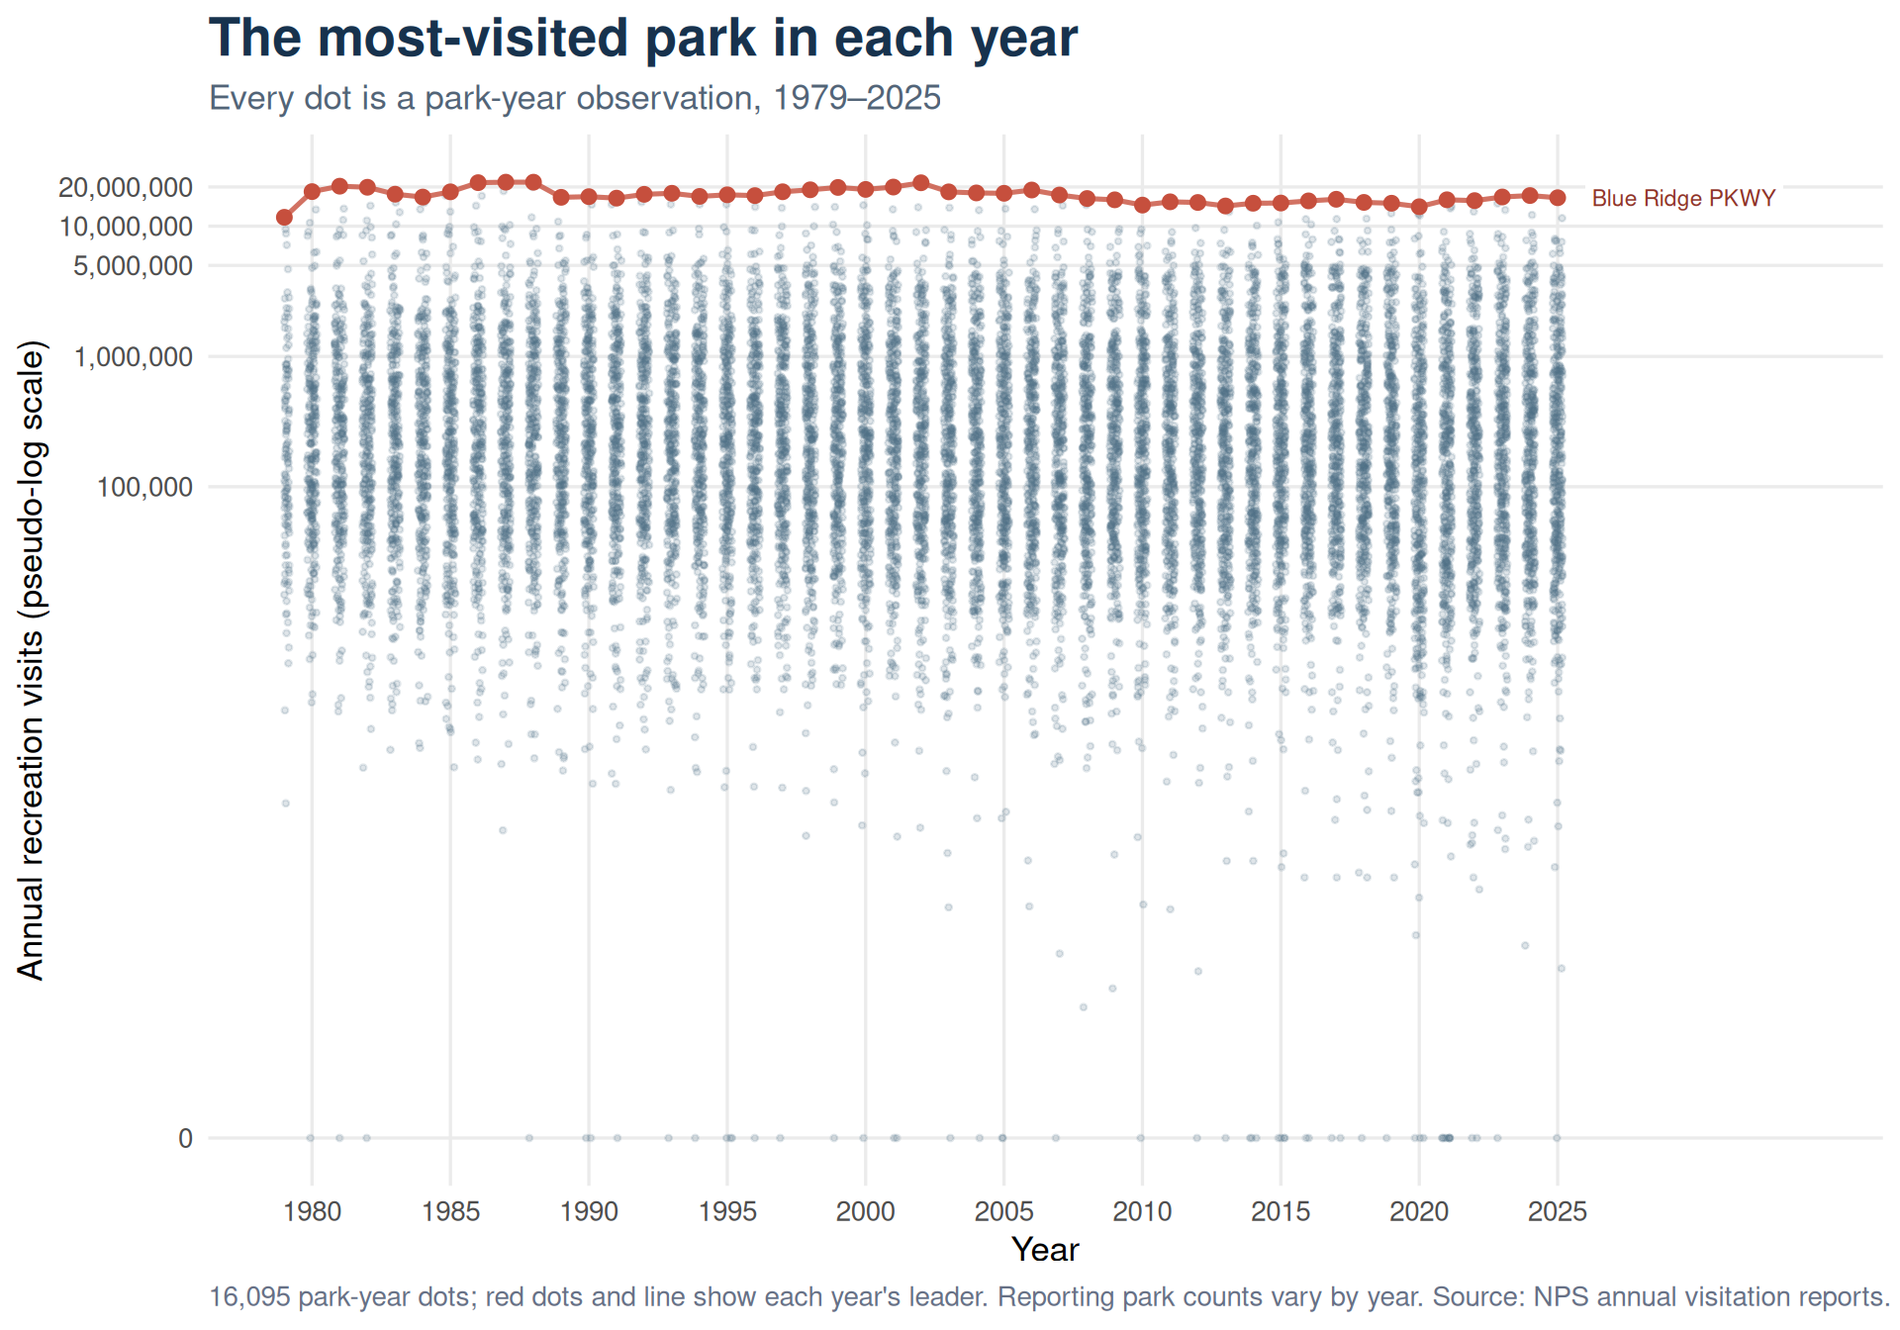
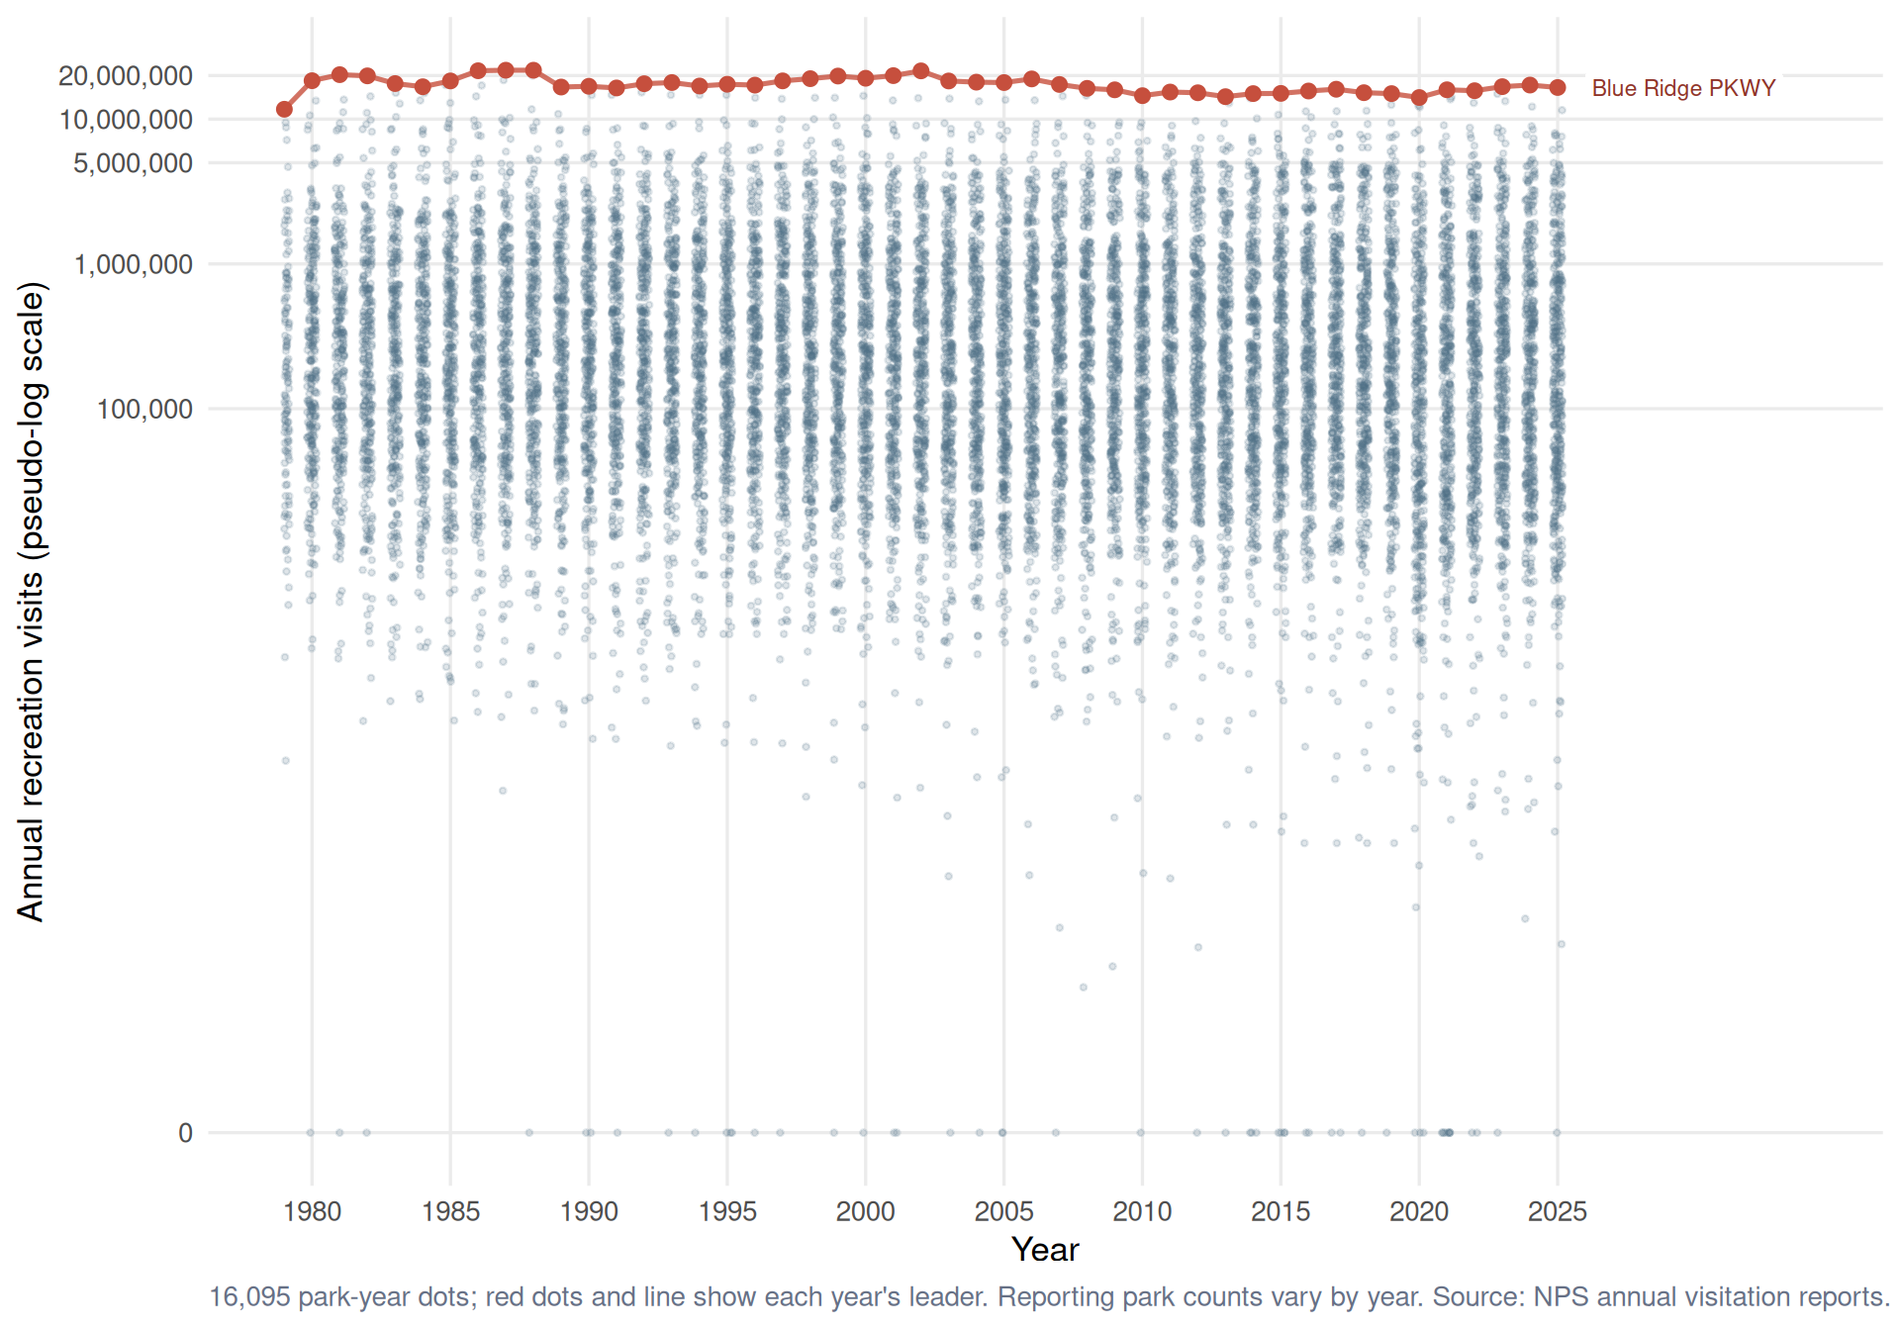
updated version

diff --git a/project.html b/project.html
@@ -6,8 +6,9 @@
 
 <meta name="viewport" content="width=device-width, initial-scale=1.0, user-scalable=yes">
 
+<meta name="author" content="Alexa Titherington">
 
-<title>A Year in the National Parks</title>
+<title>U.S. National Park Visitation</title>
 <style>
 /* Default styles provided by pandoc.
 ** See https://pandoc.org/MANUAL.html#variables-for-html for config info.
@@ -25,41 +26,6 @@ ul.task-list li input[type="checkbox"] {
   width: 0.8em;
   margin: 0 0.8em 0.2em -1em; /* quarto-specific, see https://github.com/quarto-dev/quarto-cli/issues/4556 */ 
   vertical-align: middle;
-}
-/* CSS for syntax highlighting */
-html { -webkit-text-size-adjust: 100%; }
-pre > code.sourceCode { white-space: pre; position: relative; }
-pre > code.sourceCode > span { display: inline-block; line-height: 1.25; }
-pre > code.sourceCode > span:empty { height: 1.2em; }
-.sourceCode { overflow: visible; }
-code.sourceCode > span { color: inherit; text-decoration: inherit; }
-div.sourceCode { margin: 1em 0; }
-pre.sourceCode { margin: 0; }
-@media screen {
-div.sourceCode { overflow: auto; }
-}
-@media print {
-pre > code.sourceCode { white-space: pre-wrap; }
-pre > code.sourceCode > span { text-indent: -5em; padding-left: 5em; }
-}
-pre.numberSource code
-  { counter-reset: source-line 0; }
-pre.numberSource code > span
-  { position: relative; left: -4em; counter-increment: source-line; }
-pre.numberSource code > span > a:first-child::before
-  { content: counter(source-line);
-    position: relative; left: -1em; text-align: right; vertical-align: baseline;
-    border: none; display: inline-block;
-    -webkit-touch-callout: none; -webkit-user-select: none;
-    -khtml-user-select: none; -moz-user-select: none;
-    -ms-user-select: none; user-select: none;
-    padding: 0 4px; width: 4em;
-  }
-pre.numberSource { margin-left: 3em;  padding-left: 4px; }
-div.sourceCode
-  {   }
-@media screen {
-pre > code.sourceCode > span > a:first-child::before { text-decoration: underline; }
 }
 </style>
 
@@ -87,14 +53,20 @@ pre > code.sourceCode > span > a:first-child::before { text-decoration: underlin
 
 <header id="title-block-header" class="quarto-title-block default">
 <div class="quarto-title">
-<h1 class="title">A Year in the National Parks</h1>
-<p class="subtitle lead">A project proposal on visitation, seasons, and change</p>
+<h1 class="title">U.S. National Park Visitation</h1>
+<p class="subtitle lead">Which park drew the most recreation visits each year, 1979–2025?</p>
 </div>
 
 
 
 <div class="quarto-title-meta">
 
+    <div>
+    <div class="quarto-title-meta-heading">Author</div>
+    <div class="quarto-title-meta-contents">
+             <p>Alexa Titherington </p>
+          </div>
+  </div>
     
   
     
@@ -105,102 +77,8 @@ pre > code.sourceCode > span > a:first-child::before { text-decoration: underlin
 </header>
 
 
-<section id="project-idea" class="level2">
-<h2 class="anchored" data-anchor-id="project-idea">Project idea</h2>
-<p>For my final project, I plan to study how visitation at U.S. national parks has changed over time and how seasonal patterns differ from park to park. I assembled three NPS annual visitation reports into one dataset covering 1979–2025, with 16,095 park-year observations. The separate 2025 ranking report adds each park’s rank and share of total visits.</p>
-<p>The variables I am most interested in are <strong>park name</strong>, <strong>year</strong>, and <strong>recreation visits</strong>. I will use them to compare parks and explore long-term changes in popularity. The annual report also includes other visitor-use statistics, such as visitor hours and overnight stays, which could help me compare different kinds of park use.</p>
-</section>
-<section id="which-park-was-most-visited-each-year" class="level2">
-<h2 class="anchored" data-anchor-id="which-park-was-most-visited-each-year">Which park was most visited each year?</h2>
-<p>Each small gray dot is one park’s annual recreation visits. The red dots highlight the most-visited park in each year, and the red line connects those annual leaders. The pseudo-log scale keeps the many smaller parks visible alongside parks with millions of visits.</p>
+<p>Each small gray dot represents one park’s annual recreation visits. The red dots and line show which park had the most visits each year.</p>
 <div class="cell">
-<div class="code-copy-outer-scaffold"><div class="sourceCode cell-code" id="cb1"><pre class="sourceCode r code-with-copy"><code class="sourceCode r"><span id="cb1-1"><a href="#cb1-1" aria-hidden="true" tabindex="-1"></a><span class="fu">library</span>(tidyverse)</span></code></pre></div><button title="Copy to Clipboard" class="code-copy-button"><i class="bi"></i></button></div>
-<div class="cell-output cell-output-stderr">
-<pre><code>── Attaching core tidyverse packages ──────────────────────── tidyverse 2.0.0 ──
-✔ dplyr     1.2.1     ✔ readr     2.2.0
-✔ forcats   1.0.1     ✔ stringr   1.6.0
-✔ ggplot2   4.0.3     ✔ tibble    3.3.1
-✔ lubridate 1.9.5     ✔ tidyr     1.3.2
-✔ purrr     1.2.2     
-── Conflicts ────────────────────────────────────────── tidyverse_conflicts() ──
-✖ dplyr::filter() masks stats::filter()
-✖ dplyr::lag()    masks stats::lag()
-ℹ Use the conflicted package (&lt;http://conflicted.r-lib.org/&gt;) to force all conflicts to become errors</code></pre>
-</div>
-<div class="code-copy-outer-scaffold"><div class="sourceCode cell-code" id="cb3"><pre class="sourceCode r code-with-copy"><code class="sourceCode r"><span id="cb3-1"><a href="#cb3-1" aria-hidden="true" tabindex="-1"></a>annual_visits <span class="ot">&lt;-</span> <span class="fu">read_csv</span>(</span>
-<span id="cb3-2"><a href="#cb3-2" aria-hidden="true" tabindex="-1"></a>  <span class="st">"nps_annual_visits_1979_2025.csv"</span>,</span>
-<span id="cb3-3"><a href="#cb3-3" aria-hidden="true" tabindex="-1"></a>  <span class="at">show_col_types =</span> <span class="cn">FALSE</span></span>
-<span id="cb3-4"><a href="#cb3-4" aria-hidden="true" tabindex="-1"></a>)</span>
-<span id="cb3-5"><a href="#cb3-5" aria-hidden="true" tabindex="-1"></a></span>
-<span id="cb3-6"><a href="#cb3-6" aria-hidden="true" tabindex="-1"></a>annual_leaders <span class="ot">&lt;-</span> annual_visits <span class="sc">|&gt;</span></span>
-<span id="cb3-7"><a href="#cb3-7" aria-hidden="true" tabindex="-1"></a>  <span class="fu">group_by</span>(year) <span class="sc">|&gt;</span></span>
-<span id="cb3-8"><a href="#cb3-8" aria-hidden="true" tabindex="-1"></a>  <span class="fu">slice_max</span>(recreation_visits, <span class="at">n =</span> <span class="dv">1</span>, <span class="at">with_ties =</span> <span class="cn">FALSE</span>) <span class="sc">|&gt;</span></span>
-<span id="cb3-9"><a href="#cb3-9" aria-hidden="true" tabindex="-1"></a>  <span class="fu">ungroup</span>()</span>
-<span id="cb3-10"><a href="#cb3-10" aria-hidden="true" tabindex="-1"></a></span>
-<span id="cb3-11"><a href="#cb3-11" aria-hidden="true" tabindex="-1"></a><span class="fu">ggplot</span>(annual_visits, <span class="fu">aes</span>(<span class="at">x =</span> year, <span class="at">y =</span> recreation_visits)) <span class="sc">+</span></span>
-<span id="cb3-12"><a href="#cb3-12" aria-hidden="true" tabindex="-1"></a>  <span class="fu">geom_point</span>(</span>
-<span id="cb3-13"><a href="#cb3-13" aria-hidden="true" tabindex="-1"></a>    <span class="at">position =</span> <span class="fu">position_jitter</span>(<span class="at">width =</span> <span class="fl">0.18</span>, <span class="at">height =</span> <span class="dv">0</span>, <span class="at">seed =</span> <span class="dv">2026</span>),</span>
-<span id="cb3-14"><a href="#cb3-14" aria-hidden="true" tabindex="-1"></a>    <span class="at">color =</span> <span class="st">"#52738A"</span>,</span>
-<span id="cb3-15"><a href="#cb3-15" aria-hidden="true" tabindex="-1"></a>    <span class="at">alpha =</span> <span class="fl">0.18</span>,</span>
-<span id="cb3-16"><a href="#cb3-16" aria-hidden="true" tabindex="-1"></a>    <span class="at">size =</span> <span class="fl">0.75</span></span>
-<span id="cb3-17"><a href="#cb3-17" aria-hidden="true" tabindex="-1"></a>  ) <span class="sc">+</span></span>
-<span id="cb3-18"><a href="#cb3-18" aria-hidden="true" tabindex="-1"></a>  <span class="fu">geom_line</span>(</span>
-<span id="cb3-19"><a href="#cb3-19" aria-hidden="true" tabindex="-1"></a>    <span class="at">data =</span> annual_leaders,</span>
-<span id="cb3-20"><a href="#cb3-20" aria-hidden="true" tabindex="-1"></a>    <span class="fu">aes</span>(<span class="at">group =</span> <span class="dv">1</span>),</span>
-<span id="cb3-21"><a href="#cb3-21" aria-hidden="true" tabindex="-1"></a>    <span class="at">color =</span> <span class="st">"#C64F3D"</span>,</span>
-<span id="cb3-22"><a href="#cb3-22" aria-hidden="true" tabindex="-1"></a>    <span class="at">linewidth =</span> <span class="fl">0.9</span>,</span>
-<span id="cb3-23"><a href="#cb3-23" aria-hidden="true" tabindex="-1"></a>    <span class="at">alpha =</span> <span class="fl">0.8</span></span>
-<span id="cb3-24"><a href="#cb3-24" aria-hidden="true" tabindex="-1"></a>  ) <span class="sc">+</span></span>
-<span id="cb3-25"><a href="#cb3-25" aria-hidden="true" tabindex="-1"></a>  <span class="fu">geom_point</span>(</span>
-<span id="cb3-26"><a href="#cb3-26" aria-hidden="true" tabindex="-1"></a>    <span class="at">data =</span> annual_leaders,</span>
-<span id="cb3-27"><a href="#cb3-27" aria-hidden="true" tabindex="-1"></a>    <span class="at">color =</span> <span class="st">"#C64F3D"</span>,</span>
-<span id="cb3-28"><a href="#cb3-28" aria-hidden="true" tabindex="-1"></a>    <span class="at">size =</span> <span class="fl">2.2</span></span>
-<span id="cb3-29"><a href="#cb3-29" aria-hidden="true" tabindex="-1"></a>  ) <span class="sc">+</span></span>
-<span id="cb3-30"><a href="#cb3-30" aria-hidden="true" tabindex="-1"></a>  <span class="fu">geom_label</span>(</span>
-<span id="cb3-31"><a href="#cb3-31" aria-hidden="true" tabindex="-1"></a>    <span class="at">data =</span> <span class="fu">filter</span>(annual_leaders, year <span class="sc">==</span> <span class="fu">max</span>(year)),</span>
-<span id="cb3-32"><a href="#cb3-32" aria-hidden="true" tabindex="-1"></a>    <span class="fu">aes</span>(<span class="at">label =</span> park),</span>
-<span id="cb3-33"><a href="#cb3-33" aria-hidden="true" tabindex="-1"></a>    <span class="at">nudge_x =</span> <span class="dv">1</span>,</span>
-<span id="cb3-34"><a href="#cb3-34" aria-hidden="true" tabindex="-1"></a>    <span class="at">hjust =</span> <span class="dv">0</span>,</span>
-<span id="cb3-35"><a href="#cb3-35" aria-hidden="true" tabindex="-1"></a>    <span class="at">size =</span> <span class="dv">3</span>,</span>
-<span id="cb3-36"><a href="#cb3-36" aria-hidden="true" tabindex="-1"></a>    <span class="at">color =</span> <span class="st">"#8E3328"</span>,</span>
-<span id="cb3-37"><a href="#cb3-37" aria-hidden="true" tabindex="-1"></a>    <span class="at">fill =</span> <span class="st">"white"</span>,</span>
-<span id="cb3-38"><a href="#cb3-38" aria-hidden="true" tabindex="-1"></a>    <span class="at">label.size =</span> <span class="dv">0</span></span>
-<span id="cb3-39"><a href="#cb3-39" aria-hidden="true" tabindex="-1"></a>  ) <span class="sc">+</span></span>
-<span id="cb3-40"><a href="#cb3-40" aria-hidden="true" tabindex="-1"></a>  <span class="fu">scale_x_continuous</span>(</span>
-<span id="cb3-41"><a href="#cb3-41" aria-hidden="true" tabindex="-1"></a>    <span class="at">breaks =</span> <span class="fu">seq</span>(<span class="dv">1980</span>, <span class="dv">2025</span>, <span class="at">by =</span> <span class="dv">5</span>),</span>
-<span id="cb3-42"><a href="#cb3-42" aria-hidden="true" tabindex="-1"></a>    <span class="at">limits =</span> <span class="fu">c</span>(<span class="dv">1979</span>, <span class="dv">2034</span>)</span>
-<span id="cb3-43"><a href="#cb3-43" aria-hidden="true" tabindex="-1"></a>  ) <span class="sc">+</span></span>
-<span id="cb3-44"><a href="#cb3-44" aria-hidden="true" tabindex="-1"></a>  <span class="fu">scale_y_continuous</span>(</span>
-<span id="cb3-45"><a href="#cb3-45" aria-hidden="true" tabindex="-1"></a>    <span class="at">trans =</span> scales<span class="sc">::</span><span class="fu">transform_pseudo_log</span>(<span class="at">sigma =</span> <span class="dv">1</span>),</span>
-<span id="cb3-46"><a href="#cb3-46" aria-hidden="true" tabindex="-1"></a>    <span class="at">breaks =</span> <span class="fu">c</span>(<span class="dv">0</span>, <span class="dv">100000</span>, <span class="dv">1000000</span>, <span class="dv">5000000</span>, <span class="dv">10000000</span>, <span class="dv">20000000</span>),</span>
-<span id="cb3-47"><a href="#cb3-47" aria-hidden="true" tabindex="-1"></a>    <span class="at">labels =</span> scales<span class="sc">::</span><span class="fu">label_comma</span>()</span>
-<span id="cb3-48"><a href="#cb3-48" aria-hidden="true" tabindex="-1"></a>  ) <span class="sc">+</span></span>
-<span id="cb3-49"><a href="#cb3-49" aria-hidden="true" tabindex="-1"></a>  <span class="fu">labs</span>(</span>
-<span id="cb3-50"><a href="#cb3-50" aria-hidden="true" tabindex="-1"></a>    <span class="at">title =</span> <span class="st">"The most-visited park in each year"</span>,</span>
-<span id="cb3-51"><a href="#cb3-51" aria-hidden="true" tabindex="-1"></a>    <span class="at">subtitle =</span> <span class="st">"Every dot is a park-year observation, 1979–2025"</span>,</span>
-<span id="cb3-52"><a href="#cb3-52" aria-hidden="true" tabindex="-1"></a>    <span class="at">x =</span> <span class="st">"Year"</span>,</span>
-<span id="cb3-53"><a href="#cb3-53" aria-hidden="true" tabindex="-1"></a>    <span class="at">y =</span> <span class="st">"Annual recreation visits (pseudo-log scale)"</span>,</span>
-<span id="cb3-54"><a href="#cb3-54" aria-hidden="true" tabindex="-1"></a>    <span class="at">caption =</span> <span class="fu">paste0</span>(</span>
-<span id="cb3-55"><a href="#cb3-55" aria-hidden="true" tabindex="-1"></a>      <span class="fu">format</span>(<span class="fu">nrow</span>(annual_visits), <span class="at">big.mark =</span> <span class="st">","</span>),</span>
-<span id="cb3-56"><a href="#cb3-56" aria-hidden="true" tabindex="-1"></a>      <span class="st">" park-year dots; red dots and line show each year's leader. "</span>,</span>
-<span id="cb3-57"><a href="#cb3-57" aria-hidden="true" tabindex="-1"></a>      <span class="st">"Reporting park counts vary by year. Source: NPS annual visitation reports."</span></span>
-<span id="cb3-58"><a href="#cb3-58" aria-hidden="true" tabindex="-1"></a>    )</span>
-<span id="cb3-59"><a href="#cb3-59" aria-hidden="true" tabindex="-1"></a>  ) <span class="sc">+</span></span>
-<span id="cb3-60"><a href="#cb3-60" aria-hidden="true" tabindex="-1"></a>  <span class="fu">theme_minimal</span>(<span class="at">base_size =</span> <span class="dv">13</span>) <span class="sc">+</span></span>
-<span id="cb3-61"><a href="#cb3-61" aria-hidden="true" tabindex="-1"></a>  <span class="fu">theme</span>(</span>
-<span id="cb3-62"><a href="#cb3-62" aria-hidden="true" tabindex="-1"></a>    <span class="at">plot.title =</span> <span class="fu">element_text</span>(<span class="at">face =</span> <span class="st">"bold"</span>, <span class="at">color =</span> <span class="st">"#17324D"</span>, <span class="at">size =</span> <span class="dv">20</span>),</span>
-<span id="cb3-63"><a href="#cb3-63" aria-hidden="true" tabindex="-1"></a>    <span class="at">plot.subtitle =</span> <span class="fu">element_text</span>(<span class="at">color =</span> <span class="st">"#526477"</span>),</span>
-<span id="cb3-64"><a href="#cb3-64" aria-hidden="true" tabindex="-1"></a>    <span class="at">plot.caption =</span> <span class="fu">element_text</span>(<span class="at">color =</span> <span class="st">"#667085"</span>, <span class="at">hjust =</span> <span class="dv">0</span>),</span>
-<span id="cb3-65"><a href="#cb3-65" aria-hidden="true" tabindex="-1"></a>    <span class="at">panel.grid.minor =</span> <span class="fu">element_blank</span>()</span>
-<span id="cb3-66"><a href="#cb3-66" aria-hidden="true" tabindex="-1"></a>  )</span></code></pre></div><button title="Copy to Clipboard" class="code-copy-button"><i class="bi"></i></button></div>
-<div class="cell-output cell-output-stderr">
-<pre><code>Warning: The `label.size` argument of `geom_label()` is deprecated as of ggplot2 3.5.0.
-ℹ Please use the `linewidth` argument instead.</code></pre>
-</div>
-<div class="cell-output cell-output-stderr">
-<pre><code>Warning: Removed 144 rows containing missing values or values outside the scale range
-(`geom_point()`).</code></pre>
-</div>
 <div class="cell-output-display">
 <div id="fig-park-visitation-dots" class="quarto-float quarto-figure quarto-figure-center anchored">
 <figure class="quarto-float quarto-float-fig figure">
@@ -214,25 +92,6 @@ Figure&nbsp;1: Annual recreation visits for every park-year; red marks the most-
 </div>
 </div>
 </div>
-</section>
-<section id="questions-i-hope-to-explore" class="level2">
-<h2 class="anchored" data-anchor-id="questions-i-hope-to-explore">Questions I hope to explore</h2>
-<ul>
-<li>Which parks have the most recreation visits, and how has that changed over time? This plot focuses on annual recreation visits and highlights the leading park in each year.</li>
-<li>Which months tend to be busiest or quietest, and which parks have the strongest seasonal swings? My current CSV files are annual, so I need monthly data to answer this part.</li>
-<li>Did visitation patterns shift in particular years? Monthly data could show month-by-month changes, but would not identify visits on specific holidays.</li>
-</ul>
-</section>
-<section id="data-sources" class="level2">
-<h2 class="anchored" data-anchor-id="data-sources">Data sources</h2>
-<ul>
-<li><a href="https://irma.nps.gov/Stats/">NPS Visitor Use Statistics portal</a></li>
-<li><a href="https://www.nps.gov/subjects/socialscience/visitor-use-statistics-dashboard.htm">NPS Visitor Use Statistics Dashboard</a></li>
-</ul>
-<p>The NPS dashboard describes the monthly series as beginning in 1979 and provides park-level and monthly or annual views. I will check the data definitions and limitations before interpreting comparisons.</p>
-<p>To study seasonal patterns, I should download a <strong>monthly park-level visitation report</strong> from the NPS portal, with park name or code, year, month, and recreation visits. Ideally it would cover 1979 through the most recent complete year. Monthly data can answer which months are busiest, but holiday-specific analysis would require daily visitation data, if available.</p>
-<p>The annual reports cover up to 20 years each, so I combined report periods 1979–1998, 1999–2018, and 2019–2025 for the full historical view. The number of reporting park units changes over time, so comparisons describe the distribution among units reporting in each year.</p>
-</section>
 
 </main>
 <!-- /main column -->
